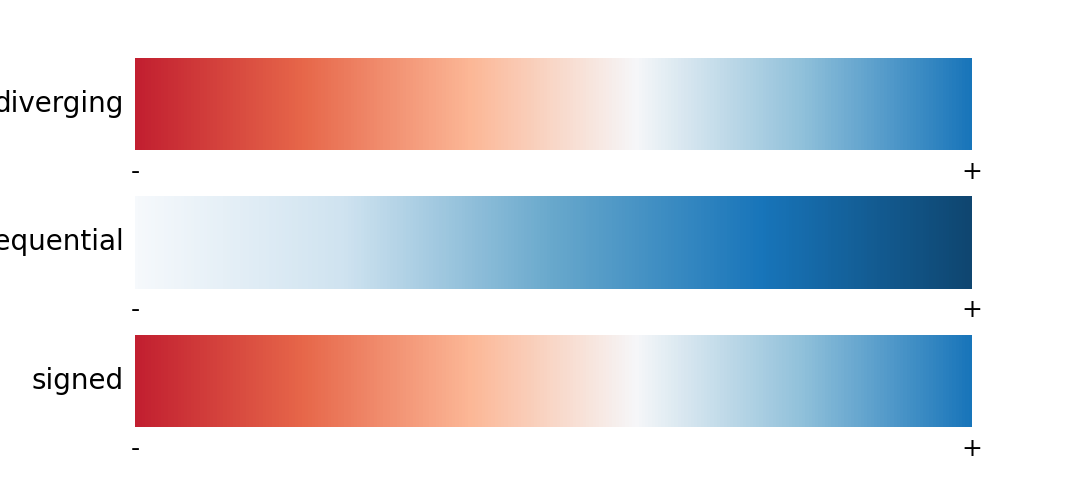
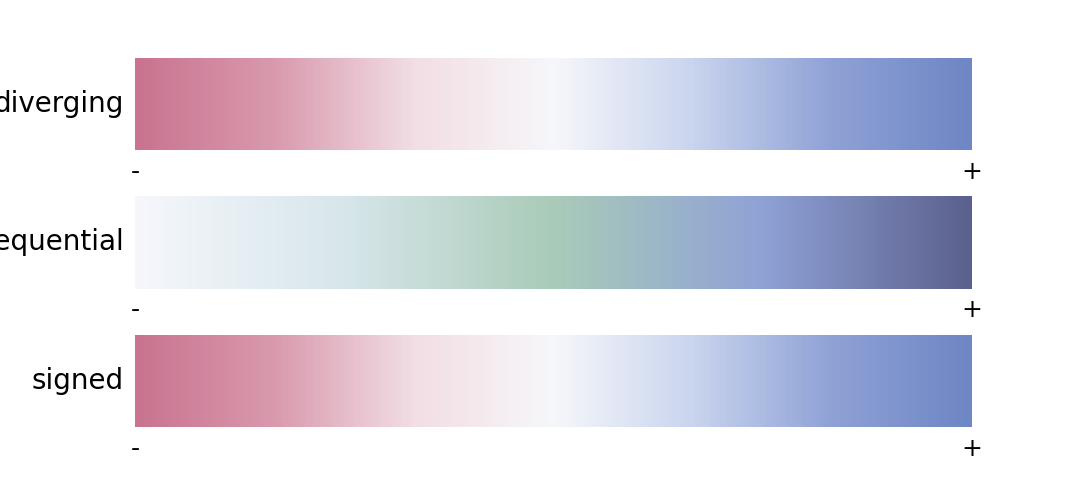
Palette: back to the soft pastel core set, black frame and black type
Adopt the 'Extracted Core Palette' seven colours as the house palette:
primary #8FA2D6 (Periwinkle Blue), secondary #6A5C95 (Lavender Dusk),
contrast #D99AAE (Coral Bloom), improve #A9CBB8 (Seafoam Mist),
accent #E7A889 (Coral Peach), neutral #5B608C (Slate Violet),
light #CFE3E6 (Pale Aqua). The light members carry the large areas; the two
deep violets stay on thin lines, emphasis and references.

Both colour ramps are re-derived from this set (diverging: coral bloom <->
periwinkle; sequential: seafoam -> periwinkle -> slate violet). The frame and
all type stay pure black (WXL_FRAME / WXL_INK). Docs, palette and cmap swatches,
previews and the Word document are regenerated.

diff --git a/assets/wxl_style.py b/assets/wxl_style.py
@@ -33,20 +33,20 @@ from matplotlib.font_manager import findfont
 # Constants
 # --------------------------------------------------------------------------
 
-#: Spectra-derived science palette. The six colours were sampled off a
-#: multi-panel XRD / FTIR / XPS / Raman figure: a deep blue and a light blue for
-#: the two main traces, a dark red for the reference / competitor trace, a teal
-#: for the fitted components, an orange for the Raman bands and a peach for the
-#: light fit fills. The sheet has no grey, so ``neutral`` is derived from the
-#: primary by dropping its saturation to 10 % at value 0.52.
+#: Soft pastel science palette. The seven colours are the "extracted core
+#: palette" supplied by the user: a diffuse lavender / deep slate pair for the
+#: main roles, a coral pair (bloom / peach) and a seafoam for the comparison and
+#: gain roles, and a pale aqua for light fills. The light members carry the large
+#: areas so a big bar or stacked area stays calm; the two deep violets are kept
+#: for thin lines, emphasis and references.
 WXL_PALETTE = {
-    "primary": "#1875BA",    # deep blue   - proposed method / main series
-    "secondary": "#68A8CC",  # light blue  - supporting series
-    "contrast": "#C21F30",   # dark red    - baseline / competing method
-    "improve": "#0C8B94",    # teal        - improvement / positive variant
-    "accent": "#E7674A",     # orange      - emphasis, annotations
-    "neutral": "#777F85",    # derived grey- reference lines, grid, background
-    "light": "#FCB796",      # peach       - light fill, uncertainty bands
+    "primary": "#8FA2D6",    # Periwinkle Blue - proposed method / main series
+    "secondary": "#6A5C95",  # Lavender Dusk   - supporting series
+    "contrast": "#D99AAE",   # Coral Bloom     - baseline / competing method
+    "improve": "#A9CBB8",    # Seafoam Mist    - improvement / positive variant
+    "accent": "#E7A889",     # Coral Peach     - emphasis, annotations
+    "neutral": "#5B608C",    # Slate Violet    - reference lines, grid, background
+    "light": "#CFE3E6",      # Pale Aqua       - light fill, uncertainty bands
 }
 
 #: Ink for text: axis labels, tick labels and annotations. Pure black, so the
@@ -60,14 +60,13 @@ WXL_INK = "#000000"
 WXL_FRAME = "#000000"
 
 #: Colour-map stops, interpolated from the palette so a heatmap or contour is
-#: always the same family as the line work around it. ``div`` runs dark red ->
-#: peach -> clear -> light blue -> deep blue through a neutral centre (signed
-#: data); ``seq`` runs near-white -> light blue -> deep blue (single-sided
-#: magnitudes).
+#: always the same family as the line work around it. ``div`` runs coral bloom ->
+#: clear -> periwinkle through a neutral centre (signed data); ``seq`` runs
+#: near-white -> seafoam -> periwinkle -> slate violet (single-sided magnitudes).
 WXL_CMAP_STOPS = {
-    "div_rose_blue": ["#C21F30", "#E7674A", "#FCB796", "#F6F7F9", "#8FC0DA",
-                      "#1875BA"],
-    "seq_blue": ["#F6F9FC", "#CFE3F0", "#68A8CC", "#1875BA", "#0F4670"],
+    "div_rose_blue": ["#C9738F", "#D99AAE", "#F2DEE4", "#F6F7FA", "#C9D4EE",
+                      "#8FA2D6", "#6E86C4"],
+    "seq_blue": ["#F5F7FC", "#D7E6EA", "#A9CBB8", "#8FA2D6", "#5B608C"],
 }
 for _name, _stops in WXL_CMAP_STOPS.items():
     matplotlib.colormaps.register(

diff --git a/examples/gallery.py b/examples/gallery.py
@@ -746,7 +746,7 @@ HTML_HEAD = """<!doctype html>
   .card .head{display:flex;justify-content:space-between;align-items:baseline;
               gap:10px;padding:9px 12px 6px;border-bottom:1px solid #e6e6e6}
   .card .head h3{margin:0;font-family:"Times New Roman",serif;font-size:15px}
-  .card .cat{font-size:11.5px;color:#fff;background:#68A8CC;padding:1px 7px;border-radius:2px}
+  .card .cat{font-size:11.5px;color:#fff;background:#6A5C95;padding:1px 7px;border-radius:2px}
   .card img{width:100%;height:auto;display:block;background:#fff;cursor:zoom-in;
             border-bottom:1px solid #e6e6e6}
   .card .body{padding:9px 12px 12px;font-size:12.5px;color:#333}

diff --git a/README.md b/README.md
@@ -74,7 +74,7 @@ the colours — the skill never decides these for them. See `references/preferen
 | Target | Elsevier / IEEE / Springer |
 | Font | Times New Roman + STIX math, SimSun for CJK |
 | Type scale | 11 pt body, legend 10 pt |
-| Palette | soft science 7-colour set: Periwinkle Blue `#1875BA` primary, Coral Bloom `#C21F30` contrast, Seafoam Mist `#0C8B94` improve, Coral Peach `#E7674A` accent, Lavender Dusk `#68A8CC` secondary, Slate Violet `#777F85` neutral, Pale Aqua `#FCB796` light |
+| Palette | soft science 7-colour set: Periwinkle Blue `#8FA2D6` primary, Coral Bloom `#D99AAE` contrast, Seafoam Mist `#A9CBB8` improve, Coral Peach `#E7A889` accent, Lavender Dusk `#6A5C95` secondary, Slate Violet `#5B608C` neutral, Pale Aqua `#CFE3E6` light |
 | Axes | full box, 0.8 pt spines |
 | Legend | inside the axes, white face, ink (#2E3142) 0.8 pt border |
 | Ticks | inward, no grid, both axis ends land on a tick label |
@@ -292,13 +292,13 @@ The only colours allowed are the palette, the ink `#2E3142`, black and white.
 
 | Key | Hex | Name | Meaning | Typical use |
 |---|---|---|---|---|
-| `primary` | `#1875BA` | Periwinkle Blue | the method you argue for | main bars, main curve |
-| `secondary` | `#68A8CC` | Lavender Dusk | supporting series | extra series |
-| `contrast` | `#C21F30` | Coral Bloom | baseline / competitor | comparison bars / curves |
-| `improve` | `#0C8B94` | Seafoam Mist | improvement / variant | ablation, positive deltas |
-| `accent` | `#E7674A` | Coral Peach | emphasis | annotations, highlighted points |
-| `neutral` | `#777F85` | Slate Violet | reference / background | gridlines, target lines |
-| `light` | `#FCB796` | Pale Aqua | fill, low-emphasis mass | histograms, bands |
+| `primary` | `#8FA2D6` | Periwinkle Blue | the method you argue for | main bars, main curve |
+| `secondary` | `#6A5C95` | Lavender Dusk | supporting series | extra series |
+| `contrast` | `#D99AAE` | Coral Bloom | baseline / competitor | comparison bars / curves |
+| `improve` | `#A9CBB8` | Seafoam Mist | improvement / variant | ablation, positive deltas |
+| `accent` | `#E7A889` | Coral Peach | emphasis | annotations, highlighted points |
+| `neutral` | `#5B608C` | Slate Violet | reference / background | gridlines, target lines |
+| `light` | `#CFE3E6` | Pale Aqua | fill, low-emphasis mass | histograms, bands |
 
 The light members carry the area and the two deep violets carry the lines: only
 Lavender Dusk and Slate Violet are dark (luminance ≈ 99/255), so the large fills

diff --git a/references/design-theory.md b/references/design-theory.md
@@ -98,13 +98,13 @@ ink edges keep the figures print-safe.
 
 | Key | Hex | Name | Meaning | Typical use |
 |---|---|---|---|---|
-| `primary` | `#1875BA` | Periwinkle Blue | the method or series you are arguing for | main bars, main curve |
-| `secondary` | `#68A8CC` | Lavender Dusk | supporting role | extra series |
-| `contrast` | `#C21F30` | Coral Bloom | baseline or competitor | comparison bars/curves |
-| `improve` | `#0C8B94` | Seafoam Mist | improvement, variant | ablation, positive deltas |
-| `accent` | `#E7674A` | Coral Peach | emphasis | annotations, highlighted points |
-| `neutral` | `#777F85` | Slate Violet | reference, background | gridlines, target lines |
-| `light` | `#FCB796` | Pale Aqua | fill, low-emphasis mass | histograms, bands |
+| `primary` | `#8FA2D6` | Periwinkle Blue | the method or series you are arguing for | main bars, main curve |
+| `secondary` | `#6A5C95` | Lavender Dusk | supporting role | extra series |
+| `contrast` | `#D99AAE` | Coral Bloom | baseline or competitor | comparison bars/curves |
+| `improve` | `#A9CBB8` | Seafoam Mist | improvement, variant | ablation, positive deltas |
+| `accent` | `#E7A889` | Coral Peach | emphasis | annotations, highlighted points |
+| `neutral` | `#5B608C` | Slate Violet | reference, background | gridlines, target lines |
+| `light` | `#CFE3E6` | Pale Aqua | fill, low-emphasis mass | histograms, bands |
 
 Design intent:
 

diff --git a/references/api.md b/references/api.md
@@ -11,13 +11,13 @@ skill's `assets/` directory to `sys.path`.
 
 ```python
 WXL_PALETTE = {
-    "primary":   "#1875BA",   # Periwinkle Blue - proposed method / main series
-    "secondary": "#68A8CC",   # Lavender Dusk   - supporting series
-    "contrast":  "#C21F30",   # Coral Bloom     - baseline / competing method
-    "improve":   "#0C8B94",   # Seafoam Mist    - improvement / positive variant
-    "accent":    "#E7674A",   # Coral Peach     - emphasis, annotations
-    "neutral":   "#777F85",   # Slate Violet    - reference lines, grid, background
-    "light":     "#FCB796",   # Pale Aqua       - light fill, uncertainty bands
+    "primary":   "#8FA2D6",   # Periwinkle Blue - proposed method / main series
+    "secondary": "#6A5C95",   # Lavender Dusk   - supporting series
+    "contrast":  "#D99AAE",   # Coral Bloom     - baseline / competing method
+    "improve":   "#A9CBB8",   # Seafoam Mist    - improvement / positive variant
+    "accent":    "#E7A889",   # Coral Peach     - emphasis, annotations
+    "neutral":   "#5B608C",   # Slate Violet    - reference lines, grid, background
+    "light":     "#CFE3E6",   # Pale Aqua       - light fill, uncertainty bands
 }
 ```
 
